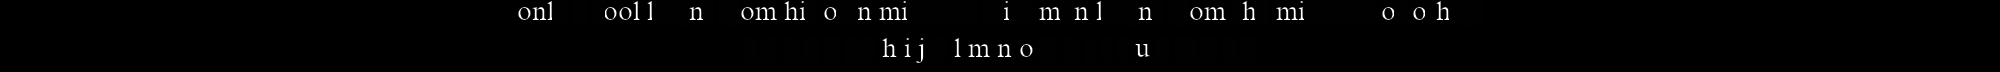
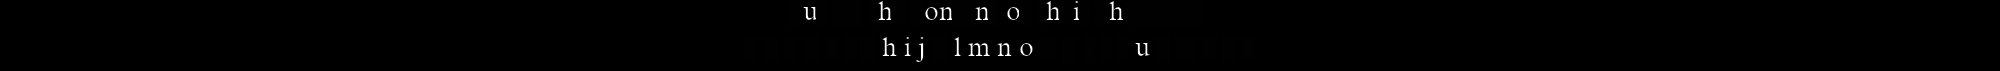
Wstępnie ogarnięta struktura projektu

diff --git a/main.py b/main.py
@@ -1,5 +1,3 @@
-from tabnanny import check
-
 import cv2
 import os
 from PIL import Image, ImageOps
@@ -8,7 +6,7 @@ import numpy as np
 import ocr
 
 def to_grayscale(image, inv=False):
-    if image.mode != 'L':  # 'L' stands for grayscale
+    if image.mode != 'L':
         image = image.convert('L')
     if inv:
         image = ImageOps.invert(image)
@@ -30,7 +28,7 @@ def chop_off_the_line(np_array_image):
 
 lines = 0
 
-def chop_all_lines(np_array_image, lines):
+def chop_all_lines(np_array_image):
     i = 0
     if check_if_line_starts(np_array_image):
         chopped_line, rest_of_image = chop_off_the_line(np_array_image)
@@ -55,12 +53,7 @@ def chop_all_lines(np_array_image, lines):
 
     return lines
 
-image = Image.open(os.path.join("images/otto.png"))
-
-# chopped_line, rest_of_image = chop_off_the_line(np.asarray(to_grayscale(image, inv=True)))
-#
-# cv2.imwrite("chopped.png", chopped_line)
-# cv2.imwrite("rest.png", rest_of_image)
+image = Image.open(os.path.join("images/luther_king.png"))
 
 lines = chop_all_lines(np.asarray(to_grayscale(image, inv=True)), lines)
 

diff --git a/ocr.py b/ocr.py
@@ -8,7 +8,7 @@ from numpy.fft import fft2, ifft2
 from PIL import Image, ImageOps
 
 def to_grayscale(image, inv=False):
-    if image.mode != 'L':  # 'L' stands for grayscale
+    if image.mode != 'L':
         image = image.convert('L')
     if inv:
         image = ImageOps.invert(image)
@@ -136,20 +136,15 @@ def ocr(ocr_filename, inv):
 
     locations.sort(key=lambda x: x[1])
 
-    # Usuwa litery wykryte z doklejonego alfabetu
     for tup in locations[:]:
         _, _, y, _ = tup
         if y > 40:
             locations.remove(tup)
 
-    # Wykrywa i dokleja spacje
     detect_space(locations)
     locations.sort(key=lambda x: x[1])
 
-    # Printuje napis końcowy
     string = ""
     for name, _, _, _ in locations:
         string += name
     print(string)
-
-# ocr("images/edison.png", inv=True)

diff --git a/mask_creator.py b/mask_creator.py
@@ -1,19 +1,13 @@
 import cv2
 import numpy as np
-import os
 from PIL import Image
 
-# Loop through each character from 'a' to 'z'
 for char in [chr(i) for i in range(ord("a"), ord("z") + 1)]:
-    # Define the font and mask file paths
     font_filename = "font/" + char + ".png"
     mask_filename = "font_mask/" + char + ".png"
 
-    # Open the font image
     image = Image.open(font_filename)
 
-    # Create a white mask of the same size as the image
     mask = np.ones((image.size[1], image.size[0]), dtype=np.uint8)
 
-    # Save the mask as a PNG file
     cv2.imwrite(mask_filename, mask)

diff --git a/README.md b/README.md
@@ -4,3 +4,10 @@
 - Wielkość czcionki: 27
 - Szerokość obrazu 2000
 - Automatyczne doklejanie alfabetu od spodu do czytanej linijki
+
+## ToDo:
+- Przerobić strukture projektu
+- Program który na przykładach testowych dobiera hiperparametry do danej czcionki.
+
+## Wnioski:
+- Powinienem dobrać inną czcionke, taką w której litery nie nachodzą na siebie. Chodzi o to, że przez to że litery na siebie nachodzą, przy zaklejaniu wykrytych już liter, zaklejamy inne co powoduje problemy.
